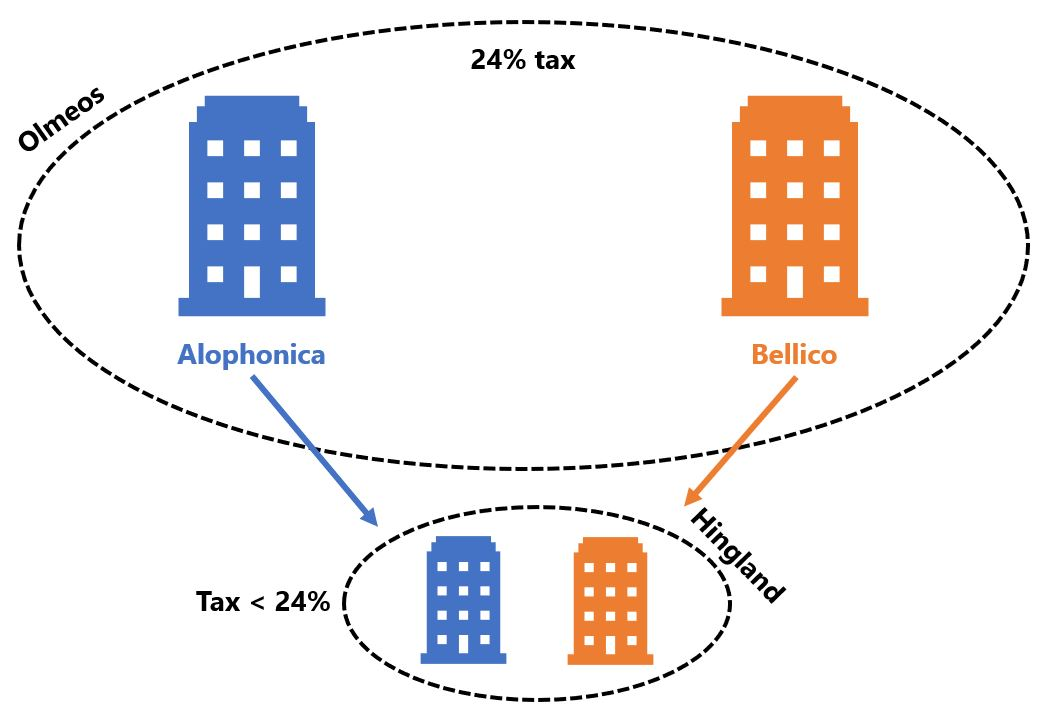
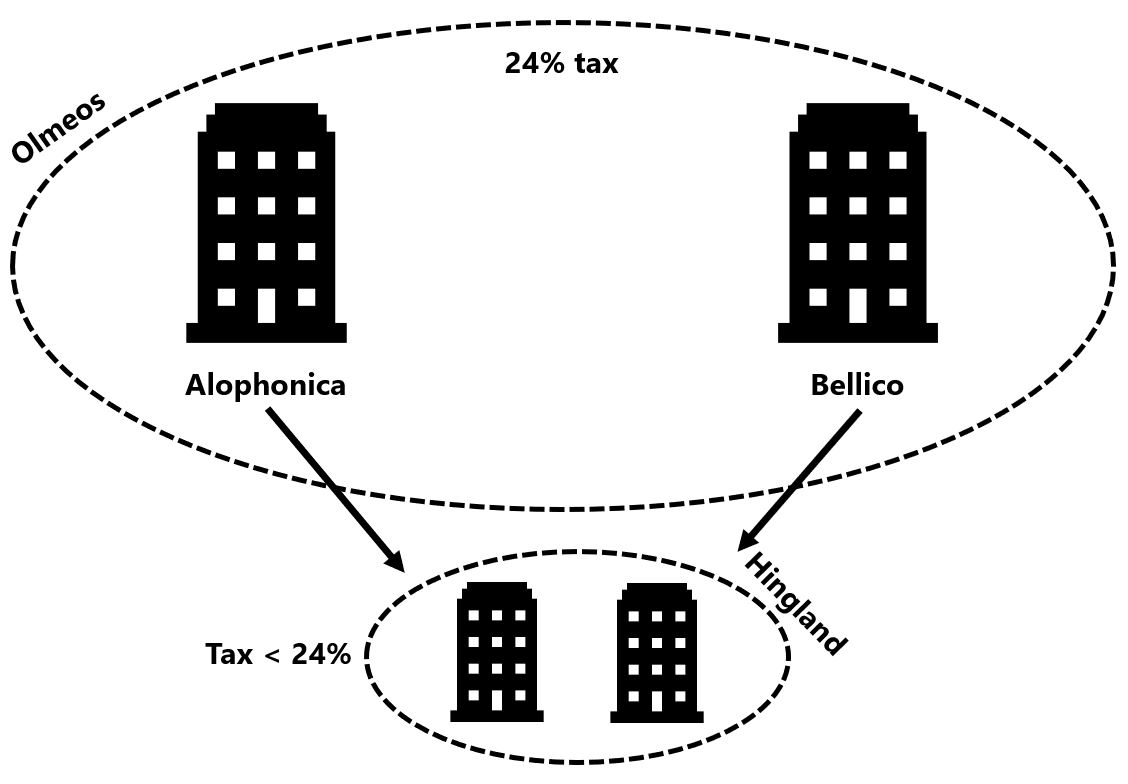
Updates colors, pages, and a few questions

diff --git a/publictax/templates/publictax/Info_3.html b/publictax/templates/publictax/Info_3.html
@@ -8,29 +8,31 @@
 {% block content %}
 
 {% if player.treat == "control" %}
-<div class="instructions" style="height: 275px;">
+<div class="instructions" style="height: 65px;">
+    <p align="center">Below you can access an excerpt of the financial statements of <b>Alophonica</b> and <b>Bellico</b> by holding the button.</p>
+</div>
+<div class="instructions" style="height: 210px;">
+    <p>Please rate the ethicality of both firms' tax practices from completely unethical (<b>-100%</b>) to completely ethical (<b>100%</b>).</p>
 
-    <p>Below you can access an excerpt of the financial statements of <b style="color: rgb(68,114,196);">Alophonica</b> and <b style="color: rgb(237,125,49);">Bellico</b> by holding the button.</p>
-
-    <p>Please rate the ethicality of <b style="color: rgb(68,114,196);">Alophonica</b> and <b style="color: rgb(237,125,49);">Bellico</b> tax practices from competely unethical (<b>0%</b>) to completely ethical (<b>100%</b>).</p>
-
-    <b style="color: rgb(68,114,196);">Alophonica</b>: <b id="demo1">0%</b>
+    <b>Alophonica</b>: <b id="demo1">0%</b>
     {% formfield player.alotax label=None %}
 
-    <b style="color: rgb(237,125,49);">Bellico</b>: <b id="demo2">0%</b>
+    <b>Bellico</b>: <b id="demo2">0%</b>
     {% formfield player.beltax label=None %}
 
 </div>
 
 {% elif player.treat == "australia" %}
-<div class="instructions" style="height: 450px;">
-    <p>Below you can access an excerpt of the financial statements of <b style="color: rgb(68,114,196);">Alophonica</b> and <b style="color: rgb(237,125,49);">Bellico</b> by holding the button.</p>
-    <p>The tax authorities also publish the following information about <b style="color: rgb(68,114,196);">Alophonica</b> and <b style="color: rgb(237,125,49);">Bellico</b>:</p>
+<div align="center" class="instructions" style="height: 65px;">
+    <p>Below you can access an excerpt of the financial statements of <b>Alophonica</b> and <b>Bellico</b> by holding the button.</p>
+</div>
+<div class="instructions" style="height: 225px;">
+    <p>The tax authorities also publish the following information about <b>Alophonica</b> and <b>Bellico</b>:</p>
     <table border="1" align="left">
     <thead>
         <tr>
-            <td align="center" colspan="2"><h6><b style="color: rgb(68,114,196);">Alophonica</b></h6></td>
-            <td align="center" colspan="2"><h6><b style="color: rgb(237,125,49);">Bellico</b></h6></td>
+            <td align="center" colspan="2"><h6><b>Alophonica</b></h6></td>
+            <td align="center" colspan="2"><h6><b>Bellico</b></h6></td>
         </tr>
     </thead>
         <tr>
@@ -58,56 +60,62 @@
             <td>16%</td>
         </tr>
     </table><br clear="all">
-    <br>
-    <p>Please rate the ethicality of <b style="color: rgb(68,114,196);">Alophonica</b> and <b style="color: rgb(237,125,49);">Bellico</b> tax practices from competely unethical (<b>0%</b>) to completely ethical (<b>100%</b>).</p>
+</div>
+<div class="instructions" style="height: 210px;">
+    <p>Please rate the ethicality of both firms' tax practices from completely unethical (<b>-100%</b>) to completely ethical (<b>100%</b>).</p>
 
-    <b style="color: rgb(68,114,196);">Alophonica</b>: <b id="demo1"></b>
+    <b>Alophonica</b>: <b id="demo1"></b>
     {% formfield player.alotax label=None %}
 
-    <b style="color: rgb(237,125,49);">Bellico</b>: <b id="demo2"></b>
+    <b>Bellico</b>: <b id="demo2"></b>
     {% formfield player.beltax label=None %}
 
 </div>
 {% elif player.treat == "punish" %}
-<div class="instructions" style="height: 450px;">
-
-    <p>Below you can access an excerpt of the financial statements of <b style="color: rgb(68,114,196);">Alophonica</b> and <b style="color: rgb(237,125,49);">Bellico</b> by holding the button.</p>
-    <p>The tax authorities also publish the following information about <b style="color: rgb(68,114,196);">Alophonica</b> and <b style="color: rgb(237,125,49);">Bellico</b>:</p>
+<div align="center" class="instructions" style="height: 65px;">
+    <p>Below you can access an excerpt of the financial statements of <b>Alophonica</b> and <b>Bellico</b> by holding the button.</p>
+</div>
+<div class="instructions" style="height: 205px;">
+    <p>The tax authorities also publish the following information about <b>Alophonica</b> and <b>Bellico</b>:</p>
 <ul>
     <li>
-        <b style="color: rgb(68,114,196);">Alophonica</b> has been audited by the tax authorities. The tax authorities have not found any evidence that <b style="color: rgb(68,114,196);">Alophonica</b> is engaged in tax malpractices.
+        <b>Alophonica</b> has been audited by the tax authorities. The tax authorities have not found any evidence that <b>Alophonica</b> is engaged in tax malpractices.
     </li>
     <li>
-        <b style="color: rgb(237,125,49);">Bellico</b> has been audited by the tax authorities. The company engages in ongoing discussions with tax authorities regarding the resolution of tax matters in the various jurisdictions. Both the outcome of these tax matters and the timing of resolution and/or closure of the tax audits are highly uncertain.
+        <b>Bellico</b> has been audited by the tax authorities. The company engages in ongoing discussions with tax authorities regarding the resolution of tax matters in the various jurisdictions. Both the outcome of these tax matters and the timing of resolution and/or closure of the tax audits are highly uncertain.
     </li>
 </ul>
-    <p>Please rate the ethicality of <b style="color: rgb(68,114,196);">Alophonica</b> and <b style="color: rgb(237,125,49);">Bellico</b> tax practices from competely unethical (<b>0%</b>) to completely ethical (<b>100%</b>).</p>
+</div>
+<div class="instructions" style="height: 210px;">
+    <p>Please rate the ethicality of both firms' tax practices from completely unethical (<b>-100%</b>) to completely ethical (<b>100%</b>).</p>
 
-    <b style="color: rgb(68,114,196);">Alophonica</b>: <b id="demo1">0%</b>
+    <b>Alophonica</b>: <b id="demo1">0%</b>
     {% formfield player.alotax label=None %}
 
-    <b style="color: rgb(237,125,49);">Bellico</b>: <b id="demo2">0%</b>
+    <b>Bellico</b>: <b id="demo2">0%</b>
     {% formfield player.beltax label=None %}
 
 </div>
 
 {% else %}
-<div class="instructions" style="height: 585px;">
-    <p>Below you can access an excerpt of the financial statements of <b style="color: rgb(68,114,196);">Alophonica</b> and <b style="color: rgb(237,125,49);">Bellico</b> by holding the button.</p>
-    <p>The tax authorities also publish the following information about <b style="color: rgb(68,114,196);">Alophonica</b> and <b style="color: rgb(237,125,49);">Bellico</b>:</p>
+<div align="center" class="instructions" style="height: 65px;">
+    <p>Below you can access an excerpt of the financial statements of <b>Alophonica</b> and <b>Bellico</b> by holding the button.</p>
+</div>
+<div class="instructions" style="height: 355px;">
+    <p>The tax authorities also publish the following information about <b>Alophonica</b> and <b>Bellico</b>:</p>
 <ul>
     <li>
-        <b style="color: rgb(68,114,196);">Alophonica</b> has been audited by the tax authorities. The tax authorities have not found any evidence that <b style="color: rgb(68,114,196);">Alophonica</b> is engaged in tax malpractices.
+        <b>Alophonica</b> has been audited by the tax authorities. The tax authorities have not found any evidence that <b>Alophonica</b> is engaged in tax malpractices.
     </li>
     <li>
-        <b style="color: rgb(237,125,49);">Bellico</b> has been audited by the tax authorities. The company engages in ongoing discussions with tax authorities regarding the resolution of tax matters in the various jurisdictions. Both the outcome of these tax matters and the timing of resolution and/or closure of the tax audits are highly uncertain.
+        <b>Bellico</b> has been audited by the tax authorities. The company engages in ongoing discussions with tax authorities regarding the resolution of tax matters in the various jurisdictions. Both the outcome of these tax matters and the timing of resolution and/or closure of the tax audits are highly uncertain.
     </li>
 </ul>
-    <table border="1" align="left">
+    <table border="1" align="center">
     <thead>
         <tr>
-            <td align="center" colspan="2"><h6><b style="color: rgb(68,114,196);">Alophonica</b></h6></td>
-            <td align="center" colspan="2"><h6><b style="color: rgb(237,125,49);">Bellico</b></h6></td>
+            <td align="center" colspan="2"><h6><b>Alophonica</b></h6></td>
+            <td align="center" colspan="2"><h6><b>Bellico</b></h6></td>
         </tr>
     </thead>
         <tr>
@@ -135,13 +143,14 @@
             <td>16%</td>
         </tr>
     </table><br clear="all">
-    <br>
-    <p>Please rate the ethicality of <b style="color: rgb(68,114,196);">Alophonica</b> and <b style="color: rgb(237,125,49);">Bellico</b> tax practices from competely unethical (<b>0%</b>) to completely ethical (<b>100%</b>).</p>
+</div>
+<div class="instructions" style="height: 210px;">
+    <p>Please rate the ethicality of both firms' tax practices from completely unethical (<b>-100%</b>) to completely ethical (<b>100%</b>).</p>
 
-    <b style="color: rgb(68,114,196);">Alophonica</b>: <b id="demo1"></b>
+    <b>Alophonica</b>: <b id="demo1"></b>
     {% formfield player.alotax label=None %}
 
-    <b style="color: rgb(237,125,49);">Bellico</b>: <b id="demo2"></b>
+    <b>Bellico</b>: <b id="demo2"></b>
     {% formfield player.beltax label=None %}
 
 </div>

diff --git a/publictax/templates/publictax/Judgment.html b/publictax/templates/publictax/Judgment.html
@@ -10,12 +10,12 @@
 {% if player.judgorder == "A" %}
 <div align="center" class="instructions" style="height: 65px;">
     <p>
-        You judged the corporate tax practices of <b style="color: rgb(68,114,196);">Alophonica</b> as <b>{{ player.alotax | floatformat:0 }}%</b> ethical and <b style="color: rgb(237,125,49);">Bellico</b> as <b>{{ player.beltax | floatformat:0 }}%</b> ethical.
+        You judged the corporate tax practices of <b>Alophonica</b> as <b>{{ player.alotax | floatformat:0 }}%</b> ethical and <b>Bellico</b> as <b>{{ player.beltax | floatformat:0 }}%</b> ethical.
     </p>
 </div>
 <div class="instructions" style="height: 575px;">
     <p>
-        Suppose you have $10,000 invested in <b style="color: rgb(68,114,196);">Alophonica</b>. Would you change your investment based on the information you just read?
+        Suppose you have <b>$10,000</b> invested in <b>Alophonica</b>. Would you change your investment based on the information you just read?
         Please drag the slider (or use the left and right arrow keys) to make your choice in percentages.
     </p>
 
@@ -24,17 +24,17 @@
     <input type="hidden" name="check_islider" value="" id="check_islider"/>
     <p></p>
 
-    <p>Based on the information you just read, would you consider investing in <b style="color: rgb(237,125,49);">Alophonica</b>?</p>
+    <p>Based on the information you just read, would you consider investing in <b>Alophonica</b>?</p>
     {% formfield player.iinvest label=None %}
 
     <p></p>
-    <p>Given the information you just read, would you still consult other sources of information before you decide about investing in <b style="color: rgb(237,125,49);">Alophonica</b>?</p>
+    <p>Given the information you just read, would you still consult other sources of information before you decide about investing in <b>Alophonica</b>?</p>
     {% formfield player.consultother label="" %}
 
     <p>
 </div>
 <div  class="instructions" style="height: 575px;">
-    <p>    Suppose you have $10,000 invested in <b style="color: rgb(237,125,49);">Bellico</b>. Would you change your investment based on the information you just read?
+    <p>    Suppose you have <b>$10,000</b> invested in <b>Bellico</b>. Would you change your investment based on the information you just read?
         Please drag the slider (or use the left and right arrow keys) to make your choice in percentages.
     </p>
 
@@ -43,11 +43,11 @@
     <input type="hidden" name="check_islider2" value="" id="check_islider2"/>
     <p></p>
 
-    <p>Based on the information you just read, would you consider investing in <b style="color: rgb(237,125,49);">Bellico</b>?</p>
+    <p>Based on the information you just read, would you consider investing in <b>Bellico</b>?</p>
     {% formfield player.iinvest2 label=None %}
 
     <p></p>
-    <p>Given the information you just read, would you still consult other sources of information before you decide about investing in <b style="color: rgb(237,125,49);">Bellico</b>?</p>
+    <p>Given the information you just read, would you still consult other sources of information before you decide about investing in <b>Bellico</b>?</p>
     {% formfield player.consultother2 label="" %}
 </div>
     <div class="instructions" style="height: 175px;">
@@ -63,12 +63,12 @@
 {% else %}
     <div align="center" class="instructions" style="height: 65px;">
     <p>
-    You judged the corporate tax practices of <b style="color: rgb(68,114,196);">Alophonica</b> as <b>{{ player.alotax | floatformat:0 }}%</b> ethical and <b style="color: rgb(237,125,49);">Bellico</b> as <b>{{ player.beltax | floatformat:0 }}%</b> ethical.
+    You judged the corporate tax practices of <b>Alophonica</b> as <b>{{ player.alotax | floatformat:0 }}%</b> ethical and <b>Bellico</b> as <b>{{ player.beltax | floatformat:0 }}%</b> ethical.
     </p>
     </div>
 <div class="instructions" style="height: 575px;">
     <p>
-        Suppose you have <b>$10,000</b> invested in <b style="color: rgb(237,125,49);">Bellico</b>. Would you change your investment based on the information you just read?
+        Suppose you have <b>$10,000</b> invested in <b>Bellico</b>. Would you change your investment based on the information you just read?
         Please drag the slider (or use the left and right arrow keys) to make your choice in percentages.
     </p>
 
@@ -77,16 +77,16 @@
     <input type="hidden" name="check_islider2" value="" id="check_islider2"/>
     <p></p>
 
-    <p>Based on the information you just read, would you consider investing in <b style="color: rgb(237,125,49);">Bellico</b>?</p>
+    <p>Based on the information you just read, would you consider investing in <b>Bellico</b>?</p>
     {% formfield player.iinvest2 label=None %}
 
     <p></p>
-    <p>Given the information you just read, would you still consult other sources of information before you decide about investing in <b style="color: rgb(237,125,49);">Bellico</b>?</p>
+    <p>Given the information you just read, would you still consult other sources of information before you decide about investing in <b>Bellico</b>?</p>
     {% formfield player.consultother2 label="" %}
 </div>
 <div class="instructions" style="height: 575px;">
     <p>
-        Suppose you have <b>$10,000</b> invested in <b style="color: rgb(68,114,196);">Alophonica</b>. Would you change your investment based on the information you just read?
+        Suppose you have <b>$10,000</b> invested in <b>Alophonica</b>. Would you change your investment based on the information you just read?
         Please drag the slider (or use the left and right arrow keys) to make your choice in percentages.
     </p>
 
@@ -95,11 +95,11 @@
     <input type="hidden" name="check_islider" value="" id="check_islider"/>
     <p></p>
 
-    <p>Based on the information you just read, would you consider investing in <b style="color: rgb(68,114,196);">Alophonica</b>?</p>
+    <p>Based on the information you just read, would you consider investing in <b>Alophonica</b>?</p>
     {% formfield player.iinvest label=None %}
 
     <p></p>
-    <p>Given the information you just read, would you still consult other sources of information before you decide about investing in <b style="color: rgb(68,114,196);">Alophonica</b>?</p>
+    <p>Given the information you just read, would you still consult other sources of information before you decide about investing in <b>Alophonica</b>?</p>
     {% formfield player.consultother label="" %}
 </div>
     <div class="instructions" style="height: 175px;">

diff --git a/publictax/templates/publictax/Info_2.html b/publictax/templates/publictax/Info_2.html
@@ -12,15 +12,15 @@
     <br/>
 </div>
 
-<div class="instructions" style="height: 130px;">
+<div class="instructions" style="height: 135px;">
         <li>
-            <b style="color: rgb(68,114,196);">Alophonica</b> and <b style="color: rgb(237,125,49);">Bellico</b> both have their headquarters in the country <b>Olmeos</b>.
+            <b>Alophonica</b> and <b>Bellico</b> both have their headquarters in the country <b>Olmeos</b>.
         </li>
         <li>
             Both firms have extensive broadband and TV distribution operations in two countries: <b>Olmeos</b> and <b>Hingland</b>.
         </li>
         <li>
-            <b>Olmeos</b> has a statutory tax rate of <b>24%</b>, and Hingland has a lower statutory tax rate.
+            <b>Olmeos</b> has a statutory tax rate of <b>24%</b>, and <b>Hingland</b> has a lower statutory tax rate.
         </li>
         <li>
             Firms receive a <b>100%</b> tax deduction on Research & Development (R&D) activities in <b>Olmeos</b>.

diff --git a/publictax/templates/publictax/Intro.html b/publictax/templates/publictax/Intro.html
@@ -10,16 +10,16 @@
 <!--Please take note of the following information:-->
     <ul>
         <li>
-            Please read information carefully and be aware that you cannot go back to previous screens.
+            Please read information carefully, and be aware that you cannot go back to previous screens.
         </li>
         <li>
-            This study is anonymous and data will only be used for research.
+            This study is anonymous, and your data will only be used for research.
         </li>
         <li>
-            There is no psychological discomfort, physical discomfort, deception in this study.
+            There is no psychological discomfort, physical discomfort, and deception in this study.
         </li>
         <li>
-            Participation is completely voluntary and you can stop at any time.
+            Participation is completely voluntary, and you can stop at any time.
         </li>
     </ul>
 

diff --git a/publictax/templates/publictax/Info_1.html b/publictax/templates/publictax/Info_1.html
@@ -11,9 +11,9 @@
     <img width="75%" src="{% static "publictax/image1.jpg" %}"/>
 </div>
 
-<div class="instructions" style="height: 185px;">
+<div class="instructions" style="height: 160px;">
     <li>
-        Your task is to evaluate the ethicality of tax practices of two listed firms (<b style="color: rgb(68,114,196);">Alophonica</b> and <b style="color: rgb(237,125,49);">Bellico</b>) in the country <b>Olmeos</b>.
+        Your task is to evaluate the ethicality of tax practices of two listed firms (<b>Alophonica</b> and <b>Bellico</b>) in the country <b>Olmeos</b>.
     </li>
     <li>
         Although <b>Olmeos</b> has a statutory tax rate of <b>24%</b>, the tax that firms effectively pay may be different.

diff --git a/publictax/templates/publictax/Financial.html b/publictax/templates/publictax/Financial.html
@@ -2,14 +2,14 @@
 {% load staticfiles otree %}
 
 {% block title %}
-    Questionnaire
+    A few questions about financial implications
 {% endblock %}
 
 {% block content %}
 
     <div class="instructions" style="text-align:center">
         <b>
-        In this last part of the study, we will ask you a few questions about financial implications.<br>
+<!--        In this last part of the study, we will ask you a few questions about financial implications.<br>-->
         Please answer the following questions to the best of your ability.<br>
         If you do not know the answer to a question, please select "I don't know."
         </b>

diff --git a/publictax/templates/publictax/PEQ.html b/publictax/templates/publictax/PEQ.html
@@ -2,7 +2,7 @@
 {% load staticfiles otree %}
 
 {% block title %}
-    A few questions about Questionnaire
+    A few questions about yourself
 {% endblock %}
 
 {% block content %}

diff --git a/publictax/templates/publictax/Turk.html b/publictax/templates/publictax/Turk.html
@@ -2,7 +2,7 @@
 {% load staticfiles otree %}
 
 {% block title %}
-    Questionnaire
+    What did you think of this HIT?
 {% endblock %}
 
 {% block content %}

diff --git a/publictax/models.py b/publictax/models.py
@@ -463,7 +463,7 @@ class Player(BasePlayer):
 
     alotax = models.FloatField(
         widget=widgets.SliderInput(attrs={'step': '1', 'style': 'width:500px'}, show_value=False),
-        min=0,
+        min=-100,
         initial=None,
         max=100,
         )
@@ -472,7 +472,7 @@ class Player(BasePlayer):
 
     beltax = models.FloatField(
         widget=widgets.SliderInput(attrs={'step': '1', 'style': 'width:500px'}, show_value=False),
-        min=0,
+        min=-100,
         initial=None,
         max=100,
         )
